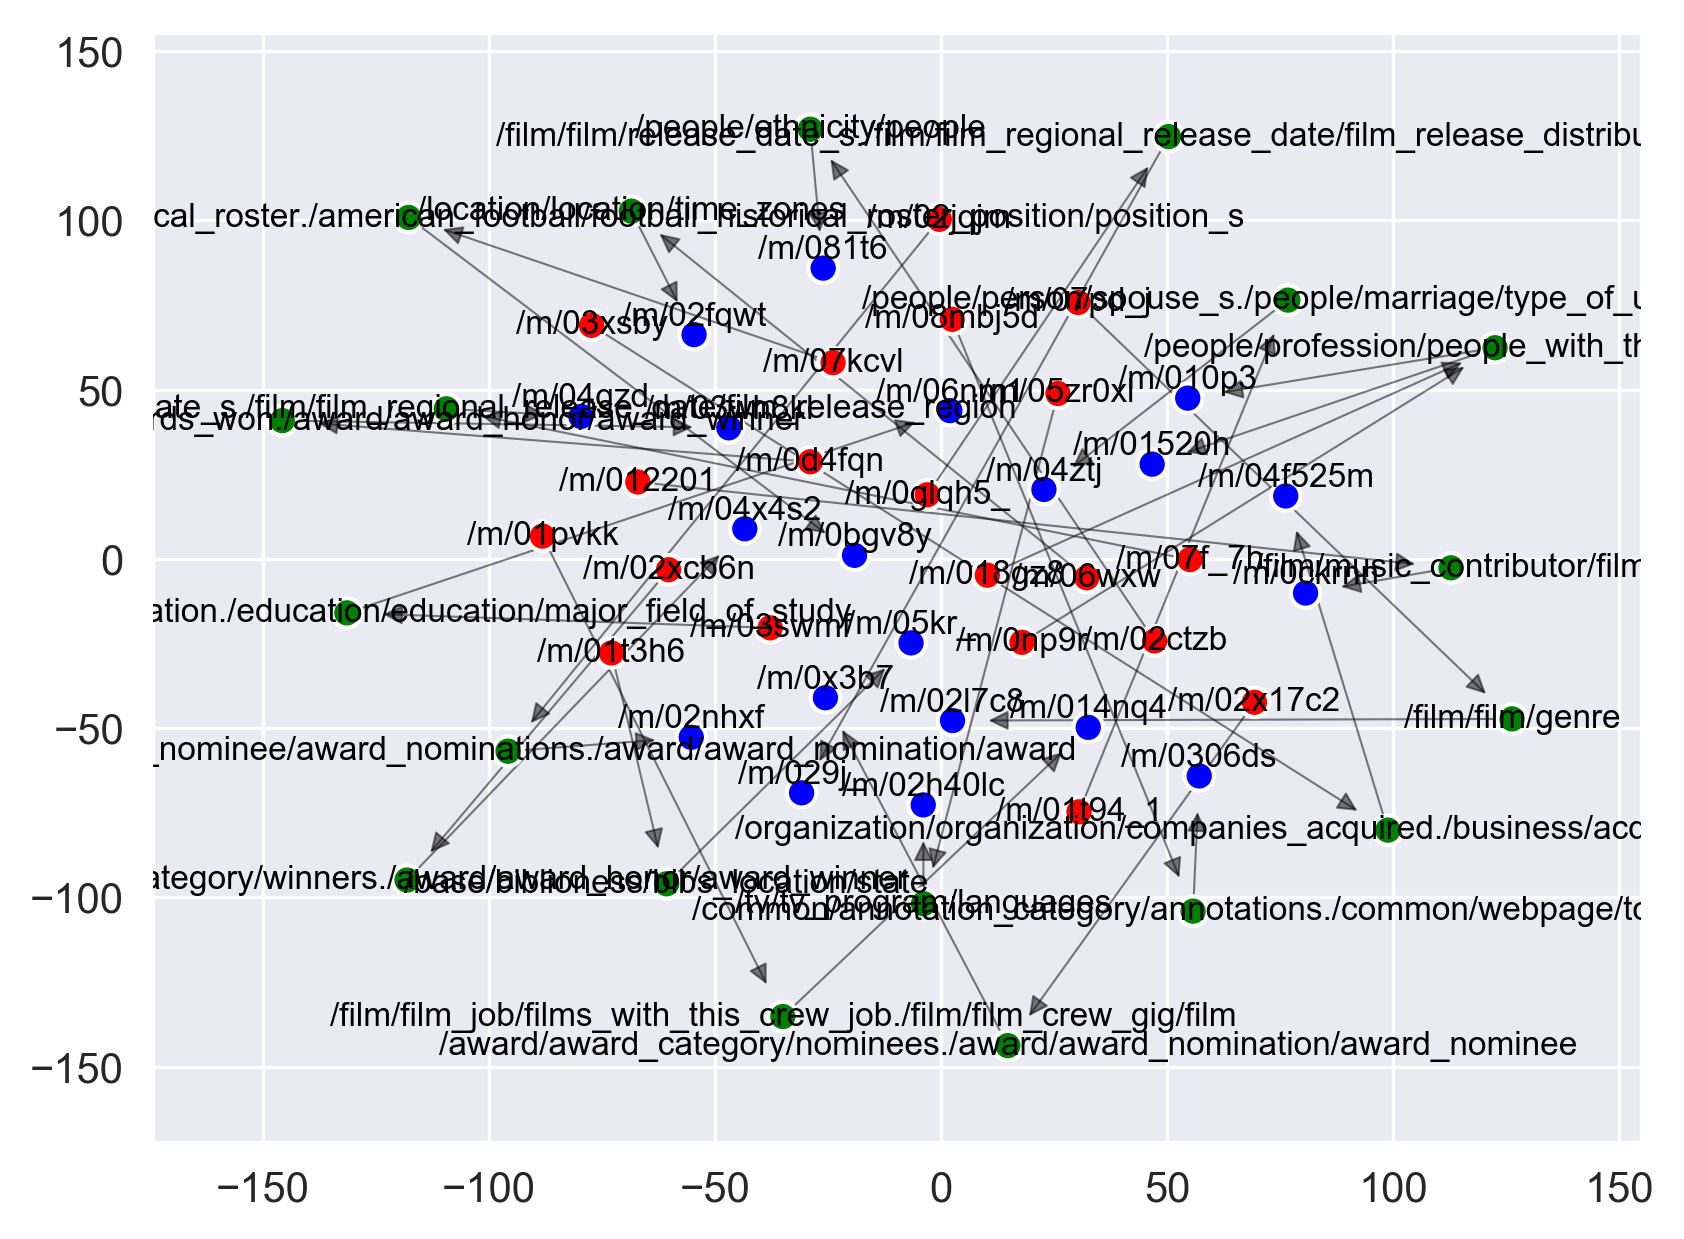
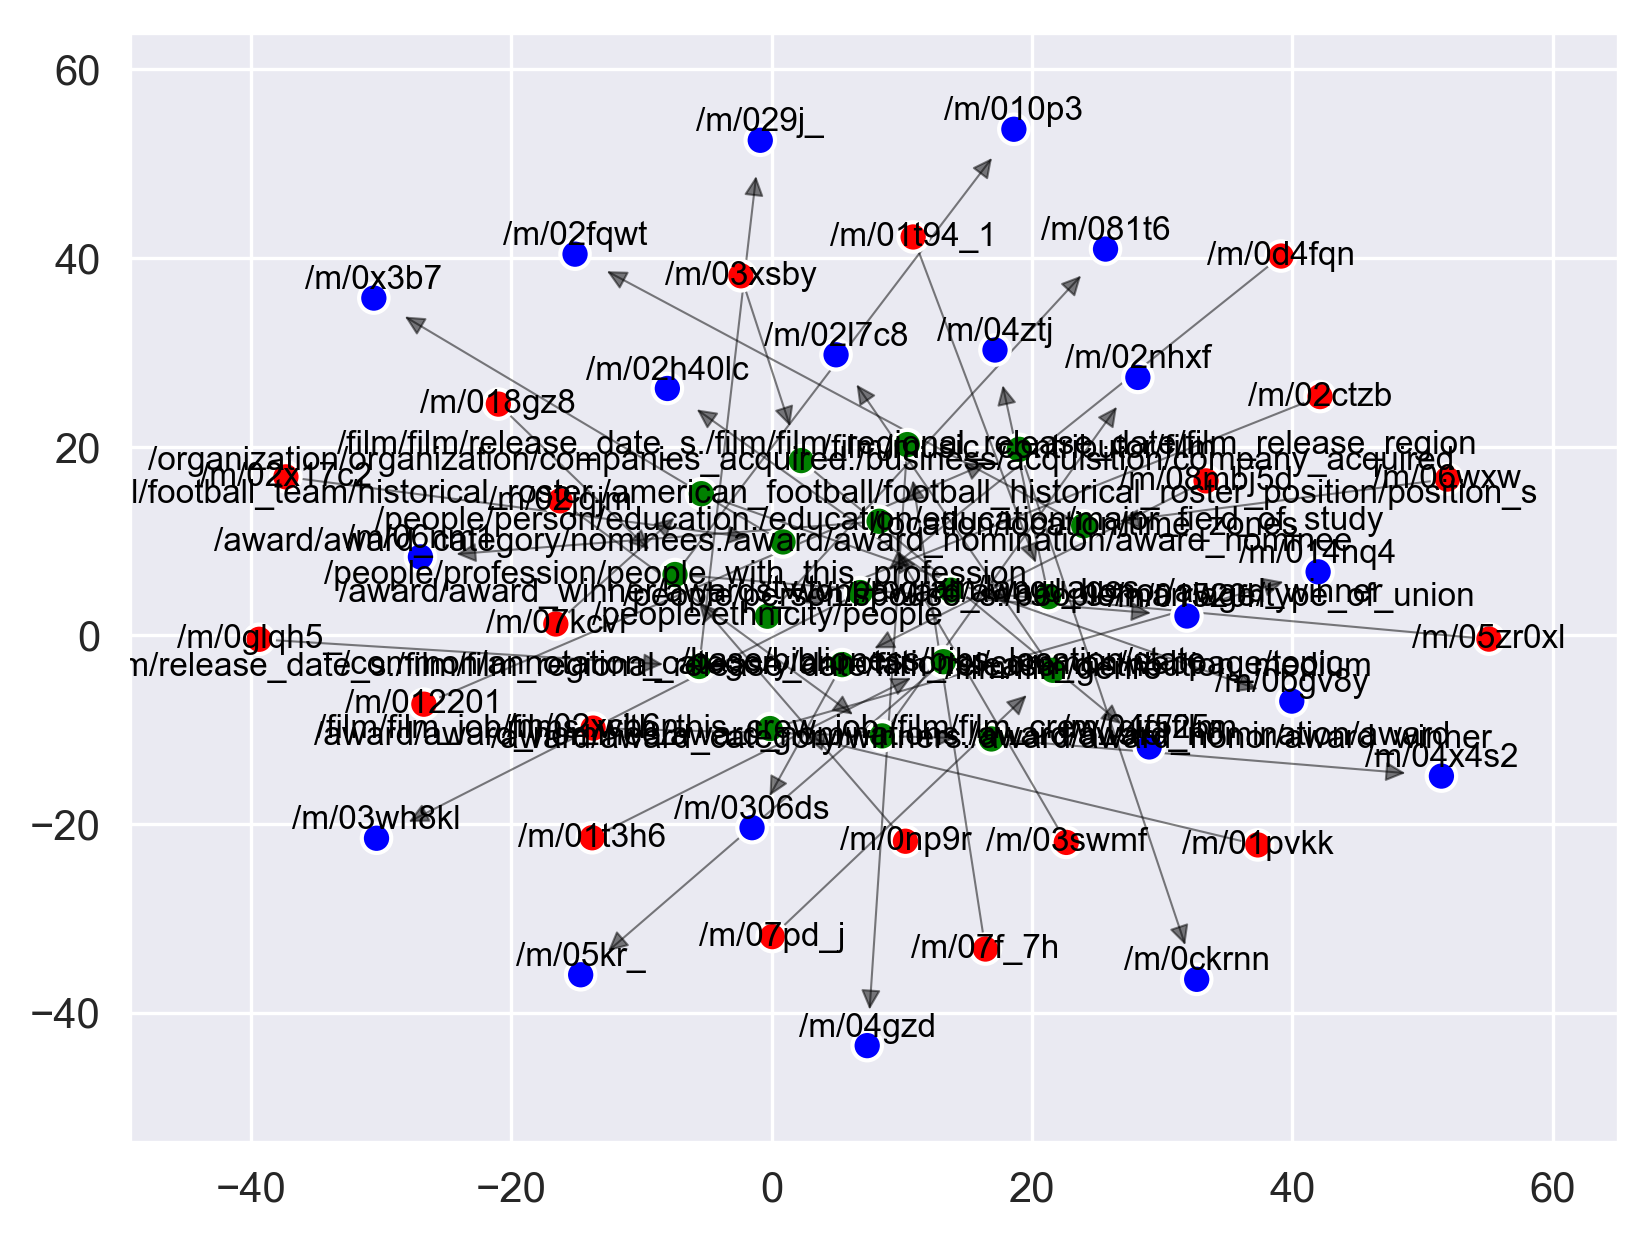
added TranR

diff --git a/pykg2vec/core/TransR.py b/pykg2vec/core/TransR.py
@@ -35,6 +35,10 @@ from argparse import ArgumentParser
 import os
 import numpy as np
 from sklearn.manifold import TSNE
+import seaborn
+
+
+seaborn.set_style("darkgrid")
 
 
 class TransR(KGMeta):
@@ -51,6 +55,7 @@ class TransR(KGMeta):
 
         self.data_handler = data_handler
         self.model_name = 'TransR'
+        self.results =[]
         with tf.name_scope("read_inputs"):
             self.pos_h = tf.placeholder(tf.int32, [self.config.batch_size])
             self.pos_t = tf.placeholder(tf.int32, [self.config.batch_size])
@@ -137,6 +142,7 @@ class TransR(KGMeta):
             self.loss = tf.reduce_sum(tf.maximum(pos - neg + self.config.margin, 0))
 
     def train(self):
+
         with tf.Session(config=self.config.gpu_config) as sess:
             gen_train = self.data_handler.batch_generator_train(batch=self.config.batch_size)
             # if self.config.loadFromData:
@@ -159,7 +165,7 @@ class TransR(KGMeta):
             for n_iter in range(self.config.epochs):
                 acc_loss = 0
                 batch = 0
-                num_batch = len(self.data_handler.train_triples_ids) // self.config.batch_size
+                num_batch = 2#len(self.data_handler.train_triples_ids) // self.config.batch_size
                 start_time = timeit.default_timer()
 
                 for i in range(num_batch):
@@ -184,13 +190,20 @@ class TransR(KGMeta):
                                                                 loss), end='\r')
                 print('Epoch[%d] ---Train Loss: %.5f ---time: %.2f' % (
                     n_iter, acc_loss, timeit.default_timer() - start_time))
-
+                self.results.append([n_iter, acc_loss])
                 # if n_iter % self.config.test_step == 0 or n_iter == 0 or n_iter == self.config.epochs - 1:
                 #     evaluate.test(sess, n_iter)
                 #     evaluate.print_test_summary(n_iter)
 
             if self.config.save_model:
                 self.save_model(sess)
+            if not os.path.exists('../results'):
+                os.mkdir('../results')
+            np.savetxt('../results/training_TransR.txt', self.results, delimiter=',')
+
+    def training_lineplot(self):
+        viz = Visualization()
+        viz.plot_train_result(self.results)
 
     def test(self):
         pass
@@ -233,11 +246,11 @@ class TransR(KGMeta):
                                              name="ent_embedding",
                                              dtype=np.float32)
                 rel_embeddings = tf.Variable(np.loadtxt('../intermediate/rel_embeddings.txt'),
-                                                  name="rel_embedding",
-                                                  dtype=np.float32)
+                                             name="rel_embedding",
+                                             dtype=np.float32)
                 rel_matrix = tf.Variable(np.loadtxt('../intermediate/rel_matrix.txt'),
-                                                  name="rel_matrix",
-                                                  dtype=np.float32)
+                                         name="rel_matrix",
+                                         dtype=np.float32)
             except FileNotFoundError:
                 print("The model was not saved! Set save_model=True!")
             sess.run(tf.global_variables_initializer())
@@ -276,9 +289,9 @@ class TransR(KGMeta):
         r_name = []
         t_name = []
         triples = self.data_handler.validation_triples_ids[:self.config.disp_triple_num]
-        pos_h=[]
-        pos_r=[]
-        pos_t=[]
+        pos_h = []
+        pos_r = []
+        pos_t = []
         for t in triples:
             h_name.append(self.data_handler.idx2entity[t.h])
             r_name.append(self.data_handler.idx2relation[t.r])
@@ -287,7 +300,7 @@ class TransR(KGMeta):
             pos_r.append(t.r)
             pos_t.append(t.t)
 
-        h_emb, r_emb, t_emb = self.predict_embed_in_rel_space(pos_h,pos_r,pos_t)
+        h_emb, r_emb, t_emb = self.predict_embed_in_rel_space(pos_h, pos_r, pos_t)
 
         h_emb = np.array(h_emb)
         r_emb = np.array(r_emb)
@@ -311,9 +324,9 @@ class TransR(KGMeta):
                            t_embs,
                            fig_name)
 
-    def save_model(self,sess):
+    def save_model(self, sess):
         """function to save the model"""
-        ee,er,rm = sess.run([self.ent_embeddings,self.rel_embeddings,self.rel_matrix])
+        ee, er, rm = sess.run([self.ent_embeddings, self.rel_embeddings, self.rel_matrix])
         if not os.path.exists(self.config.tmp):
             os.mkdir('../intermediate')
         np.savetxt('../intermediate/ent_embeddings.txt', ee)
@@ -351,7 +364,7 @@ def main():
     parser.add_argument('-b', '--batch', default=128, type=int, help='batch size')
     parser.add_argument('-t', '--tmp', default='../intermediate', type=str, help='Temporary folder')
     parser.add_argument('-ds', '--dataset', default='Freebase', type=str, help='Dataset')
-    parser.add_argument('-l', '--epochs', default=200, type=int, help='Number of Epochs')
+    parser.add_argument('-l', '--epochs', default=2, type=int, help='Number of Epochs')
     parser.add_argument('-tn', '--test_num', default=100, type=int, help='Number of test triples')
     parser.add_argument('-ts', '--test_step', default=5, type=int, help='Test every _ epochs')
     parser.add_argument('-lr', '--learn_rate', default=0.01, type=float, help='learning rate')
@@ -378,6 +391,7 @@ def main():
     if model.config.disp_summary:
         model.summary()
     if model.config.disp_result:
+        model.training_lineplot()
         model.display_in_rel_space(fig_name='TransR_Result')
 
 

diff --git a/pykg2vec/utils/visualization.py b/pykg2vec/utils/visualization.py
@@ -19,7 +19,7 @@ import matplotlib.pyplot as plt
 import networkx as nx
 import os
 import seaborn
-
+import pandas as pd
 
 seaborn.set_style("darkgrid")
 
@@ -83,6 +83,15 @@ class Visualization(object):
         # print(self.r_embs)
         # print(self.t_embs)
 
+    def plot_train_result(self, result=None):
+        if result is None:
+            result = np.loadtxt("../results/training_TransR.txt")
+
+        df = pd.DataFrame(result, columns=['Epochs', 'Loss'])
+        ax = seaborn.lineplot(x="Epochs", y="Loss",
+                              markers=True, dashes=False, data=df)
+        plt.savefig('../figures/training_TransR.pdf', bbox_inches='tight', dpi=300)
+        plt.show()
 
     def draw_figure_v2(self,
                        triples,
